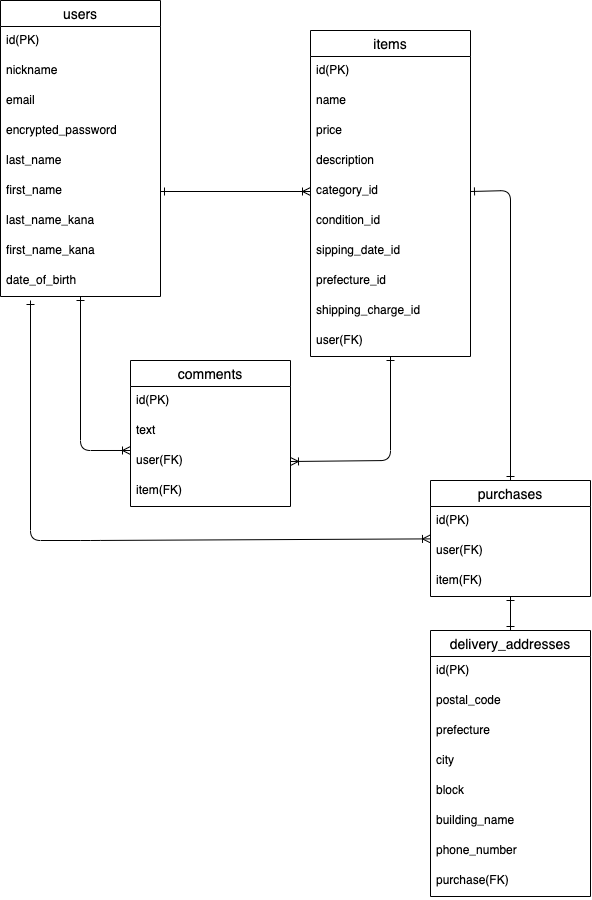
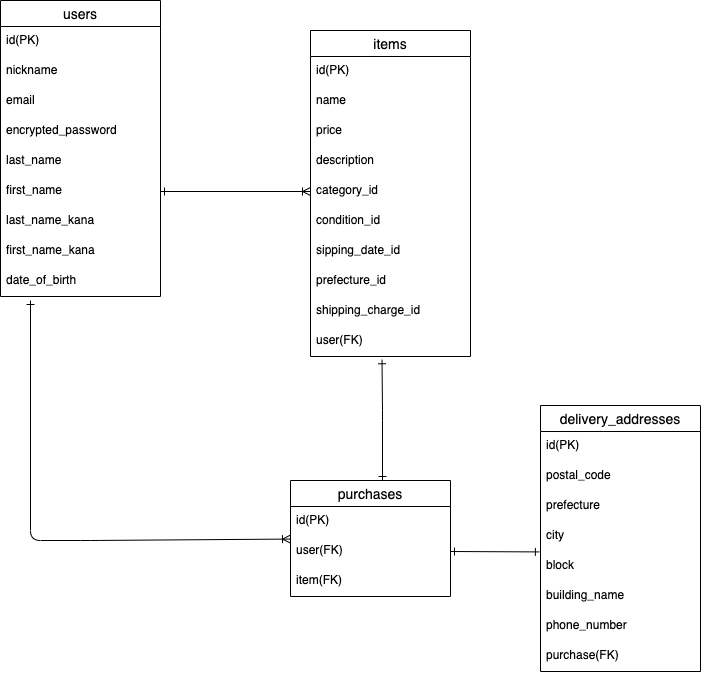
READMEの修正 ３

diff --git a/README.md b/README.md
@@ -14,7 +14,6 @@
 
 ### Association
 - has_many :items
-- has_many :comments
 - has_many :purchases
 
 ## itemsテーブル
@@ -32,21 +31,8 @@
 | user(FK) | references | null: false, foreign_key: true |
 
 ### Association
-- has_many :comments
 - has_one :purchase
 - belongs_to :user
-
-## commentsテーブル
-| Column | Type | Option |
-|-|-|-|
-| id(PK) | integer | null: false |
-| text | text | null: false |
-| user(FK) | references | null: false, foreign_key: true |
-| item(FK) | references | null: false, foreign_key: true |
-
-### Association
-- belongs_to :user
-- belongs_to :item
 
 ## purchasesテーブル
 | Column | Type | Option |
@@ -65,7 +51,7 @@
 |-|-|-|
 | id(PK) | integer | null: false |
 | postal_code | string | null: false |
-| prefecture | string | null: false |
+| prefecture | integer | null: false |
 | city | string | null: false |
 | block | string | null: false |
 | building_name | string ||
